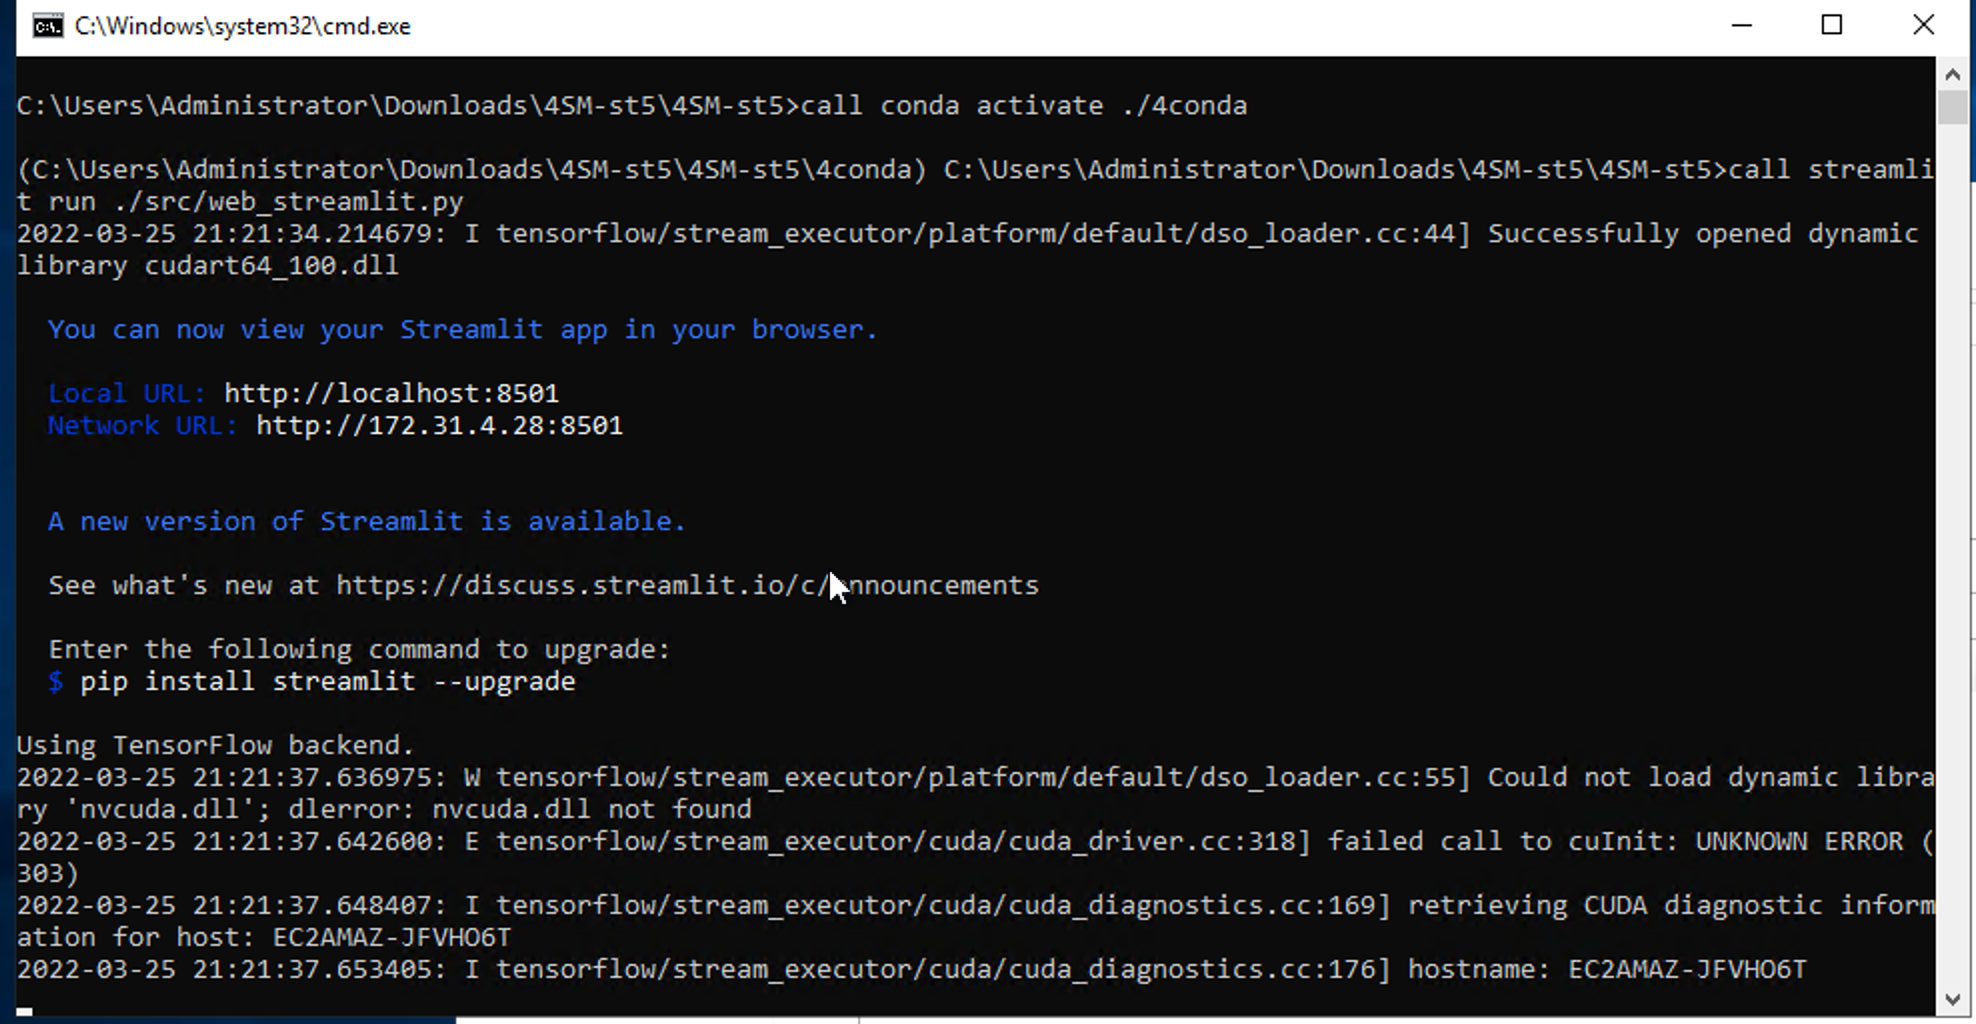
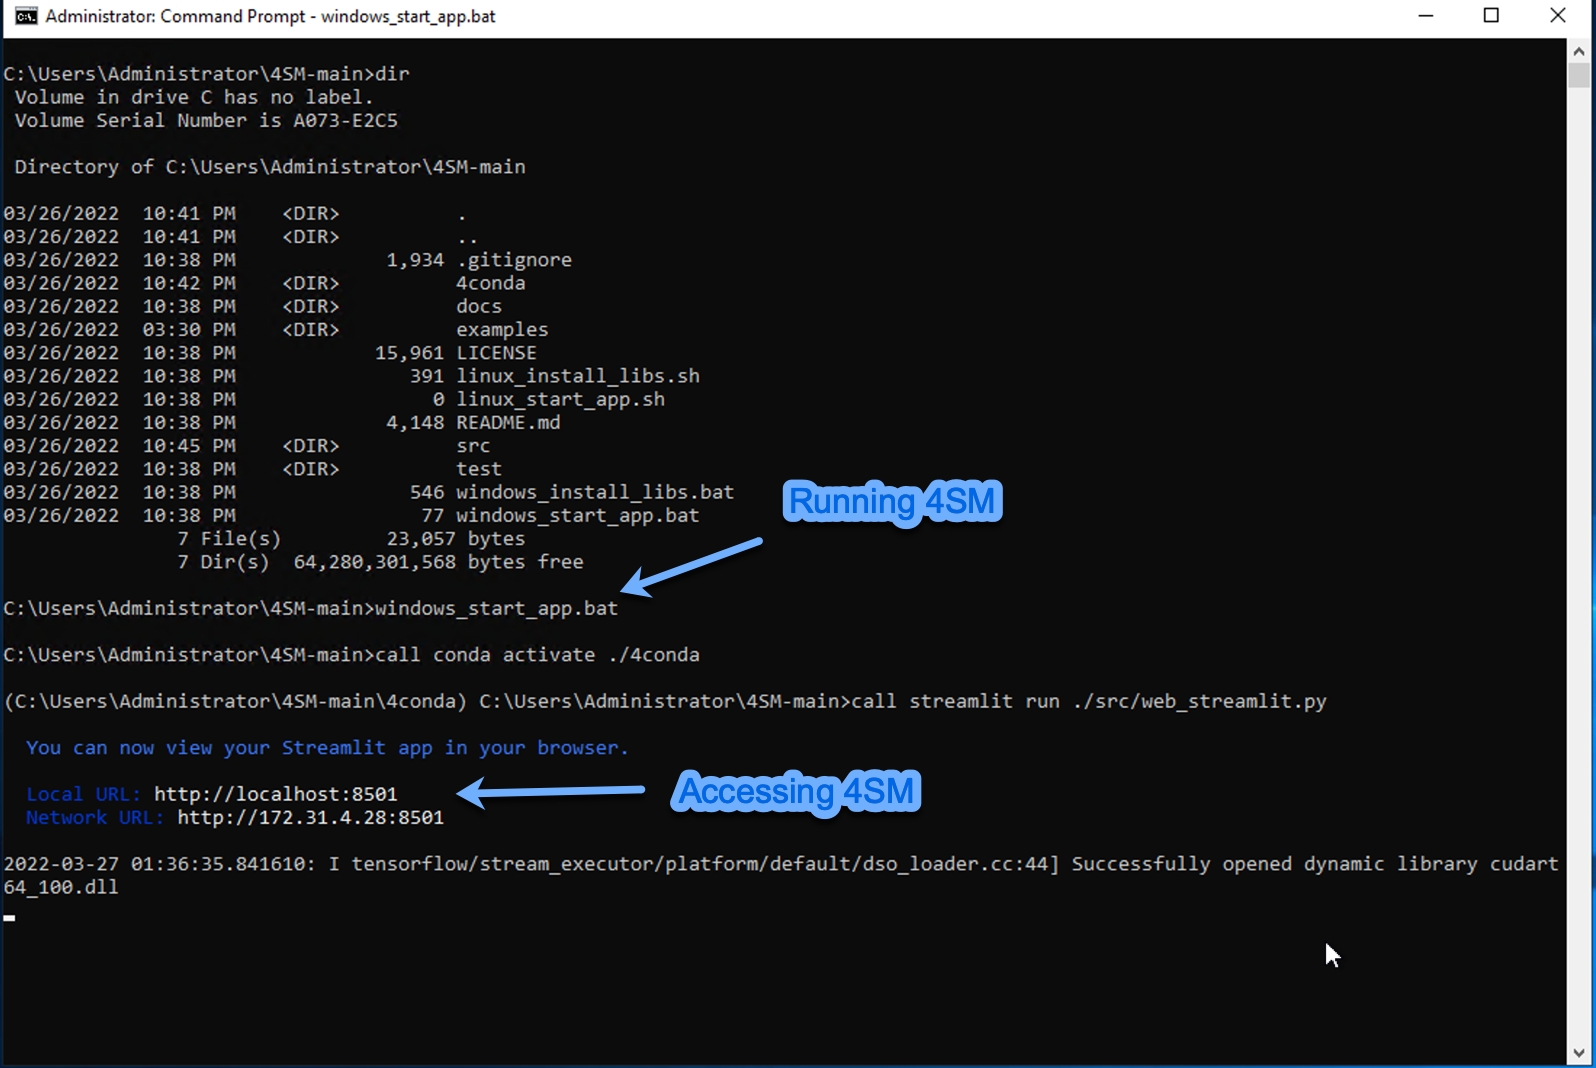
Add YouTube Installation Instructions and Demo

diff --git a/README.md b/README.md
@@ -3,17 +3,14 @@
 </h4>
 
 <div align="center">
-  <a href="#installation"><b>Installation</b></a> |
-  <a href="#usage"><b>Usage</b></a> |
-  <a href="https://github.com/SharifAmit/4SM/tree/main/examples/tutorial#tutorial-1"><b>Tutorial</b></a> |
-  <a href="https://github.com/SharifAmit/4SM/tree/main/examples"><b>Examples</b></a> |
-  <a href="https://www.youtube.com/"><b>Youtube FAQ</b></a>
+  <a href="#Installation Guide"><b>Installation Guide</b></a> |
+  <a href="https://github.com/SharifAmit/4SM/tree/main/examples/image_dataset/"><b>Test Dataset</b></a> |
+  <a href="https://www.youtube.com/watch?v=t2LsQkyAGQc" target="4SM tutorial"><b>4SM Installation and Demo on YouTube</b></a>
 </div>
 
 <br/>
 
 # 4SM: Subcellular Signal Segmenting Spatiotemporal Model
-
 This code is part of our paper **4SM: New open-source software for subcellular segmentation and analysis of spatiotemporal fluorescence signals using deep learning** and is currently under review.
 
 The authors of the papers are <b>Sharif Amit Kamran, Khondker Fariha Hossain, Hussein Moghnieh, Sarah Riar, Allison Bartlett, Alireza Tavakkoli, Kenton M Sanders and Salah A. Baker</b>
@@ -39,57 +36,33 @@ accommodate different patterns of signals across multiple cell types. The softwa
 seamless data accessibility, quantification, graphical visualization and enables large dataset
 analysis throughput.
 
-![](docs/graphical_abstract.png)  
 
+[![IMAGE ALT TEXT HERE](docs/graphical_abstract.png)](https://www.youtube.com/watch?v=t2LsQkyAGQc)
 
 # Graphical User Interface
 The code uses streamlit library to provide a graphical user interface for ease of use
 
-## Stochastic image processing
-![](installation_guides/allison_stochastic.png)  
-  
-## Plotting the results of multiple processed images
-![](installation_guides/sharif_plots.png)
+# Installation Guide
+
+## Pre-requisite
+
+- CUDA version 10+
+- List of NVIDIA Graphics cards supporting CUDA 10+
+      https://gist.github.com/standaloneSA/99788f30466516dbcc00338b36ad5acf
+
+## Installing and Running 4SM
+- [Windows](docs/Windows_Installation_Guide.md)
+- [Linux 64 / Ubuntu 18](docs/Ubuntu_Instllation_Guide.md)  
+- [Google Colab](https://colab.research.google.com/drive/1mlmrOho8D5Cd-eqlV-aZHAYAY-EpEjmj?usp=sharing)
+
+## Installation Instructions and Demo on YouTube
+[![IMAGE ALT TEXT HERE](docs/youtube_graphical_abstract.png)](https://www.youtube.com/watch?v=t2LsQkyAGQc)
 
 ## Image Segmentation
 ![](docs/Image_Segmentation.png)  
 
 ## Control Panel
 ![](docs/control_panel.png)  
-
-
-# Installation Guide
-
-## Pre-requisite
-- Ubuntu 18.04 or later / Windows 7 or later
-- NVIDIA Graphics card
-    - **Supports** : NVIDIA Pascal (P100, GTX10**), Volta (V100), Turing (GTX 16**, RTX 20**, Quadro)
-    - **Does not support** : NVIDIA Amphere (RTX 30**, A100) [In Development]
-
-## Installation Steps
-The installation process can be summarized in 4 simple steps
-- Download and install [Anaconda](https://www.anaconda.com/products/individual) 
-- Clone the GitHub project
-- Create and Activate an Anaconda environment
-- Install Python libraries
-
-## Installation
-- [Windows](docs/Windows_Installation_Guide.md)
-- [Linux 64 / Ubuntu 18](docs/Ubuntu_Instllation_Guide.md)  
-- [Google Colab](https://colab.research.google.com/drive/1mlmrOho8D5Cd-eqlV-aZHAYAY-EpEjmj?usp=sharing)
-
-
-## Running the application
-
-The user interface was built using Streamlit Python library. To run the application simple execute the following command in your termianl
-
-```
-streamlit run ./src/web_streamlit 
-```
-![](docs/linux_guide/streamlit.png)
-
-The URL of the application is shown after running the above command line
-
 
 # License
 The code is released under the GPL-2 License, you can read the license file included in the repository for details.

diff --git a/docs/Windows_Installation_Guide.md b/docs/Windows_Installation_Guide.md
@@ -2,11 +2,13 @@
 
 ## Pre-requisite
 - Windows 7 or later
-- **Supports** : NVIDIA Pascal (P100, GTX10**), Volta (V100), Turing (GTX 16**, RTX 20**, Quadro)
-- **Does not support** : NVIDIA Amphere (RTX 30**, A100) [In Development]
+- CUDA version 10+
+- List of NVIDIA Graphics cards supporting CUDA 10+
+      https://gist.github.com/standaloneSA/99788f30466516dbcc00338b36ad5acf
+
 
 ### 1. Download and Install Anaconda from the following link
-
+    
 [https://www.anaconda.com/products/individual](https://www.anaconda.com/products/individual)
 
 Important: Make sure to select "Add Anaconda(3) to the system Path environment variable" during installation as shown below
@@ -15,7 +17,7 @@ Important: Make sure to select "Add Anaconda(3) to the system Path environment v
 
 ### 2. Download and unzip the application from
 
-[Click here to download 4SM application](https://github.com/SharifAmit/4SM/archive/refs/heads/st5.zip)
+[Click here to download 4SM application](https://github.com/SharifAmit/4SM/archive/refs/heads/main.zip)
 
 ### 3. Install Python libraries dependencies 
 
@@ -24,7 +26,6 @@ In the root folder of the unzipped project, double click on the following script
 windows_install_libs.bat
 ```
 This step will create Anaconda's environment and install all python dependencies
-
 
 # Running the application
 To run your application, simply double click on the batch script in the root folder of the project
@@ -53,7 +54,7 @@ If double clicking on the batch files is not working because it cannot find Anac
 - Run the application by running 
 ```windows_start_app.bat```
 
-![](run_windows.png) 
+![](run_app_windows.png) 
 
 #### 2- Blank page when opening the application
 
